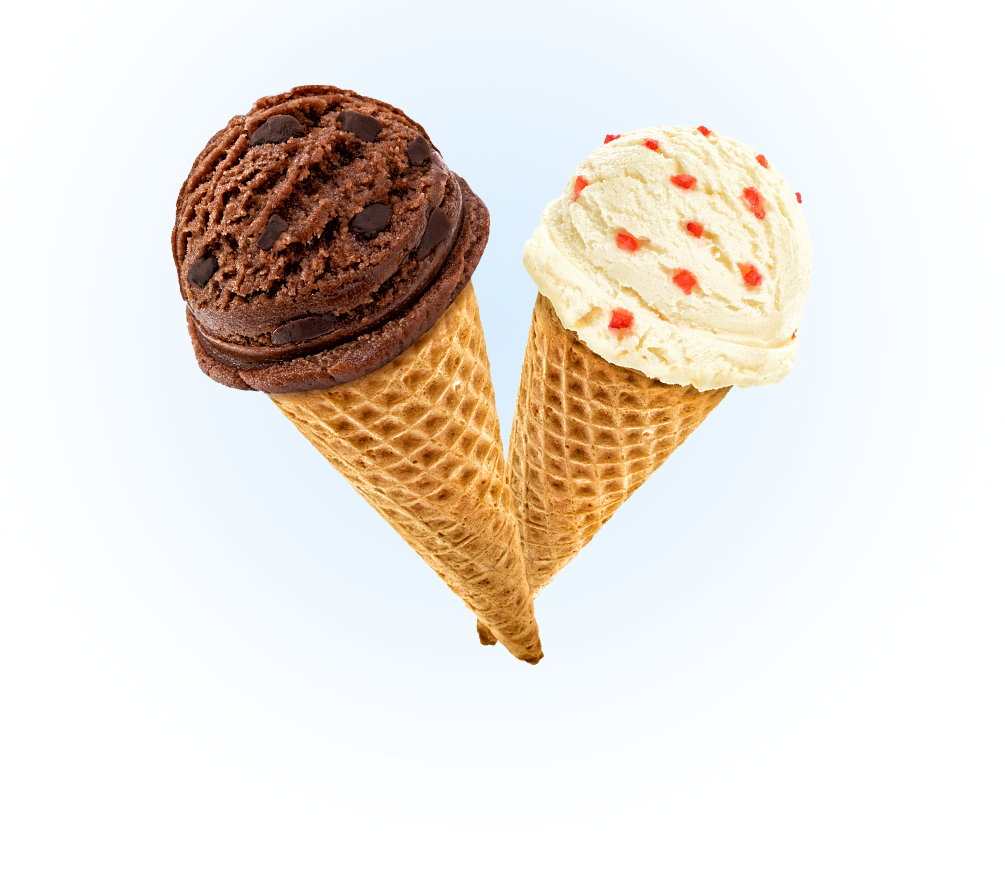
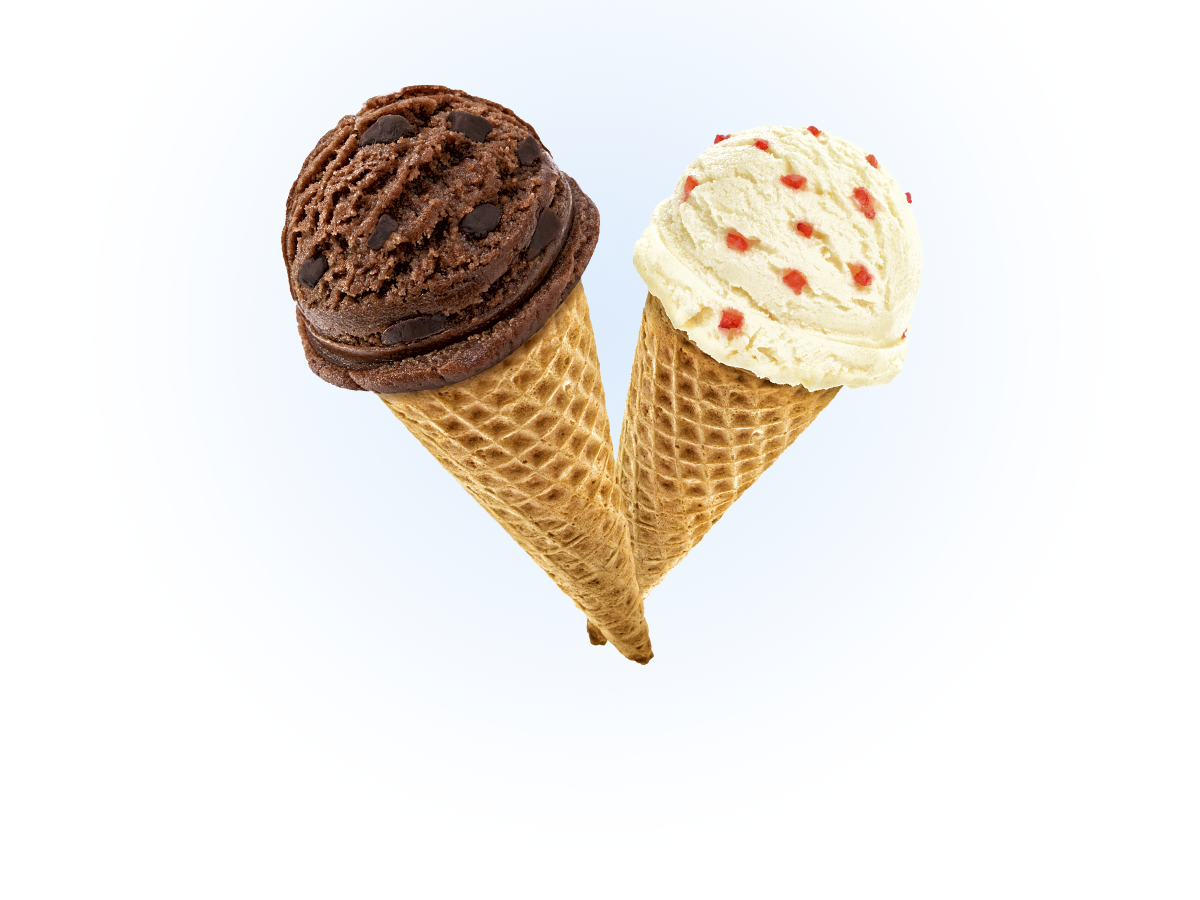
Базовая стилизация личного проекта
Изменила слайдер и размер слайдовых изображений

Changed region(s): [[0.1542, 0.0919, 0.802, 0.7662]]

diff --git a/css/style.css b/css/style.css
@@ -4,7 +4,7 @@ body {
   font-weight: normal;
   line-height: 22px;
   margin: 0;
-  padding: 0;
+  padding: 10px;
   color: #ffffff;
   background-color: #849d8f;
 }
@@ -215,7 +215,7 @@ input[type="text"] {
 .slider__controls {
   display: flex;
   justify-content: space-between;
-  align-items: center;
+  align-items: flex-end;
   margin: 0 auto;
   width: 100px;
 }
@@ -223,8 +223,11 @@ input[type="text"] {
 /* Стилизуем фон для всей страницы при переключении слайдов */
 .slide__background {
   position: absolute;
-  display: inline-block;
-  margin: auto;
+  top: 0;
+  left: 0;
+  right: 0;
+  bottom: 0;
+  display: none;
   z-index: -1;
 }
 
@@ -261,33 +264,22 @@ input[type="text"] {
 
 /* Стилизация самих слайдов */
 .slide {
-  display: inline-block;
-  width: 100%;
-  height: 500px;
+  display: none;
+  min-width: 900px;
+  margin: auto;
+  margin-bottom: 35px;
 }
 
 .slide-1 {
   background-color: transparent;
-  background-image: url(../img/slide1.png);
-  background-position: center top;
-  background-repeat: no-repeat;
-  margin: -1px;
 }
 
 .slide-2 {
   background-color: transparent;
-  background-image: url(../img/slide2.png);
-  background-position: center top;
-  background-repeat: no-repeat;
-  margin: -1px;
 }
 
 .slide-3 {
   background-color: transparent;
-  background-image: url(../img/slide3.png);
-  background-position: center top;
-  background-repeat: no-repeat;
-  margin: -1px;
 }
 
 .slide-title {
@@ -299,6 +291,7 @@ input[type="text"] {
 }
 
 .slide-btn {
+  margin: auto;
   background: linear-gradient(to bottom, #f26843 0%, #e74b36 100%);
   display: inline-block;
   padding: 10px 40px;
@@ -342,9 +335,21 @@ input[type="text"] {
   line-height: 44px;
 }
 
+.slide-img {
+  position: absolute;
+  top: 0;
+  left: 0;
+  right: 0;
+  bottom: 0;
+  z-index: -1;
+  height: 900px;
+  width: 1200px;
+}
+
+
 /* Стилизуем выбранный label для доступности с клавиатуры*/
 .slider__control:focus + .slider__label {
-  outline: 1px solid purple;  
+  outline: 10px dashed purple;
 }
 
 /* Меняем стилизацию у label для выбранного input`a */
@@ -533,38 +538,31 @@ input[type="text"] {
 }
 
 .items .item-creamy:hover {
-  display: inline-block;
-  padding: 6px 14px 20px;
   background-color: rgba(255,255,255,0.1);
   border-radius: 3px;
   box-shadow: 0 2px 15px #656565;
 }
 
 .items .item-coffee:hover {
-  display: inline-block;
-  padding: 6px 14px 20px;
   background-color: rgba(255,255,255,0.1);
   border-radius: 3px;
   box-shadow: 0 2px 15px #656565;
 }
 
 .items .item-strawberry:hover {
-  display: inline-block;
-  padding: 6px 14px 20px;
   background-color: rgba(255,255,255,0.1);
   border-radius: 3px;
   box-shadow: 0 2px 15px #656565;
 }
 
 .items .item-brulee:hover {
-  display: inline-block;
-  padding: 6px 14px 20px;
   background-color: rgba(255,255,255,0.1);
   border-radius: 3px;
   box-shadow: 0 2px 15px #656565;
 }
 
 .items .view {
+  margin: -1px;
   background: linear-gradient(to bottom, #f26843 0%, #e74b36 100%);
   display: inline-block;
   padding: 10px 20px;
@@ -581,6 +579,7 @@ input[type="text"] {
 }
 
 .items .view:hover {
+  margin: -1px;
   visibility: visible;
   background: linear-gradient(to bottom, #f58669 0%, #ec6f5e 100%);
   display: inline-block;

diff --git a/index.html b/index.html
@@ -76,32 +76,33 @@
 	</header>
 	<main>
 		<section class="sliders">
-			<div class="toggles">
-				<input class="slider__control  slider__control-1" id="control-1" type="radio" name="slider" value="red" checked>
-				<input class="slider__control  slider__control-2" id="control-2" type="radio" name="slider" value="blue">
-				<input class="slider__control  slider__control-3" id="control-3" type="radio" name="slider" value="green">
-			</div>
-			<div class="sliders-background">
-				<!-- фон, который на том же уровне, как и скрытые инпуты -->
-				<div class="slide__background slide__background-1"></div>
-				<div class="slide__background slide__background-2"></div>
-				<div class="slide__background slide__background-3"></div>
-			</div>
+			<!-- Инпуты, которые скроем -->
+			<input class="slider__control  slider__control-1" id="control-1" type="radio" name="slider" value="red" checked>
+			<input class="slider__control  slider__control-2" id="control-2" type="radio" name="slider" value="blue">
+			<input class="slider__control  slider__control-3" id="control-3" type="radio" name="slider" value="green">
+			<!-- фон, который на том же уровне, как и скрытые инпуты -->
+			<div class="slide__background slide__background-1"></div>
+			<div class="slide__background slide__background-2"></div>
+			<div class="slide__background slide__background-3"></div>
+			<!-- блок с переключением слайдов, который на том же уровне, как и скрытые инпуты -->
 			<div class="slider__controls">
 				<label class="slider__label" for="control-1"></label>
 				<label class="slider__label" for="control-2"></label>
 				<label class="slider__label" for="control-3"></label>
 			</div>
-			<div class="slides-content">
+			<div class="slides">
 				<div class="slide  slide-1">
+					<img class="slide-img" src="img/slide1.png">
 					<p class="slide-title">Крем-брюле и пломбир с малиновым джемом</p>
 					<a class="slide-btn" href="#">Давайте оба!</a>
 				</div>
-				<div class="slide  slide-2">
+				<div class="slide  slide-2">					
+					<img class="slide-img" src="img/slide2.png">
 					<p class="slide-title">Шоколадный пломбир и лимонный сорбет</p>
-					<a class="slide-btn" href="#">Давайте оба!</a> 
+					<a class="slide-btn" href="#">Давайте оба!</a>
 				</div>
 				<div class="slide  slide-3">
+					<img class="slide-img" src="img/slide3.png">
 					<p class="slide-title">Пломбир с помадкой и клубничный щербет</p>
 					<a class="slide-btn" href="#">Давайте оба!</a>
 				</div>
